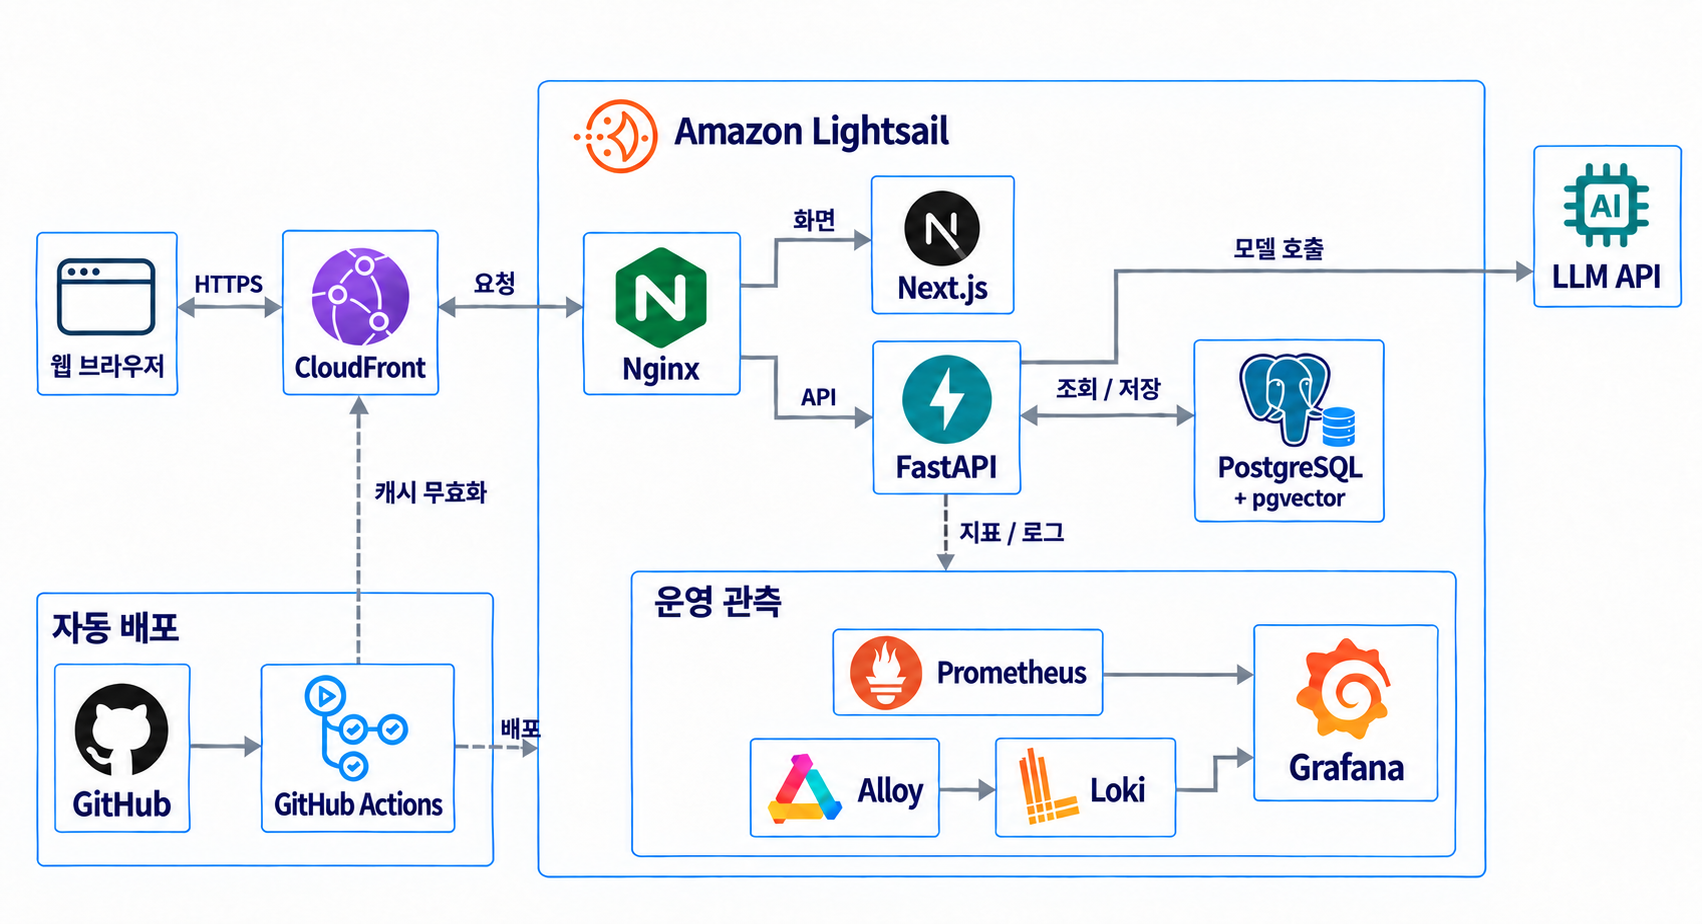
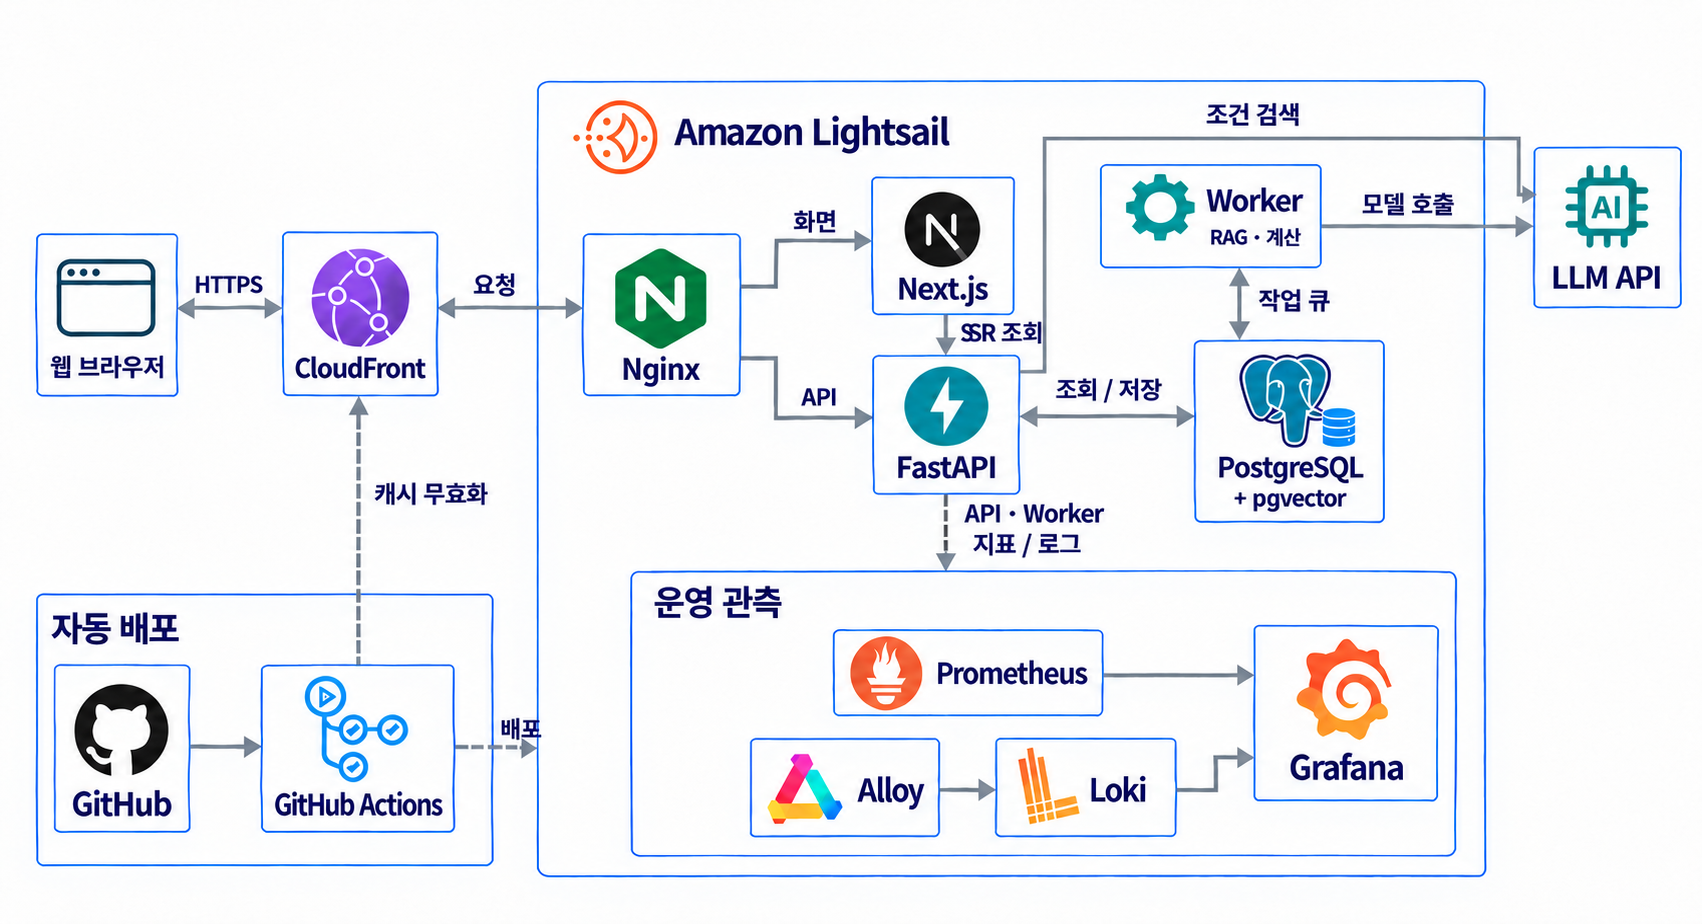
docs: PokeSettle 아키텍처 그림 최신 구조 반영

diff --git a/website/index.html b/website/index.html
@@ -41,7 +41,7 @@
 </div>
 <div>
 <section class="mb-10"><h3 class="text-[clamp(22px,2vw,26px)] font-[720] text-ink tracking-[-.04em] mb-6 leading-[1.4]">시스템 구조</h3>
-<button class="focus-visible:outline-2 focus-visible:outline-accent focus-visible:outline-offset-4 [-webkit-tap-highlight-color:transparent] group relative block w-full overflow-hidden border border-line rounded-2xl bg-white pt-4 px-4 pb-[42px] cursor-zoom-in text-muted transition-[border-color,box-shadow] duration-[180ms] hover:border-[#b4cef3] hover:shadow-[0_8px_24px_rgb(35_42_52/0.06)] small:pt-2 small:px-2 small:pb-9 small:rounded-xl print:p-0 print:border-0" type="button" data-image="assets/poketact/system-architecture-operations.png?v=f1b73a2c8d4a" aria-label="서비스 연결과 GitHub Actions 자동 배포 및 Grafana 운영 관측 구조 크게 보기"><img src="assets/poketact/system-architecture-operations.png?v=f1b73a2c8d4a" alt="서비스 연결과 GitHub Actions 자동 배포 및 Grafana 운영 관측 구조" width="1702" height="924" loading="lazy" class="max-w-full block w-full h-auto"><span class="absolute right-4 bottom-2.5 text-[12px] font-[550] group-hover:text-accent-hover small:right-3 small:bottom-2 print:hidden">그림 크게 보기<span aria-hidden="true">↗</span></span></button></section>
+<button class="focus-visible:outline-2 focus-visible:outline-accent focus-visible:outline-offset-4 [-webkit-tap-highlight-color:transparent] group relative block w-full overflow-hidden border border-line rounded-2xl bg-white pt-4 px-4 pb-[42px] cursor-zoom-in text-muted transition-[border-color,box-shadow] duration-[180ms] hover:border-[#b4cef3] hover:shadow-[0_8px_24px_rgb(35_42_52/0.06)] small:pt-2 small:px-2 small:pb-9 small:rounded-xl print:p-0 print:border-0" type="button" data-image="assets/poketact/system-architecture-operations.png?v=569cf6e7cbc8" aria-label="서비스 연결과 GitHub Actions 자동 배포 및 Grafana 운영 관측 구조 크게 보기"><img src="assets/poketact/system-architecture-operations.png?v=569cf6e7cbc8" alt="서비스 연결과 GitHub Actions 자동 배포 및 Grafana 운영 관측 구조" width="1702" height="924" loading="lazy" class="max-w-full block w-full h-auto"><span class="absolute right-4 bottom-2.5 text-[12px] font-[550] group-hover:text-accent-hover small:right-3 small:bottom-2 print:hidden">그림 크게 보기<span aria-hidden="true">↗</span></span></button></section>
 <section class="mb-12"><h3 class="text-[clamp(22px,2vw,26px)] font-[720] text-ink tracking-[-.04em] mb-6 leading-[1.4]">핵심 기능</h3><ul class="m-0 pl-0 list-none">
 <li class="my-[9px] text-[16px] text-muted">근거 기반 챗봇 - 포켓몬 전략 질문, 대화별 전투 상태와 기록 복원, 실제 인용 자료 확인</li>
 <li class="my-[9px] text-[16px] text-muted">도감과 자연어 탐색 - 총 1,351개 항목의 타입, 종족값, 특성, 기술 조회와 조건 검색</li>
